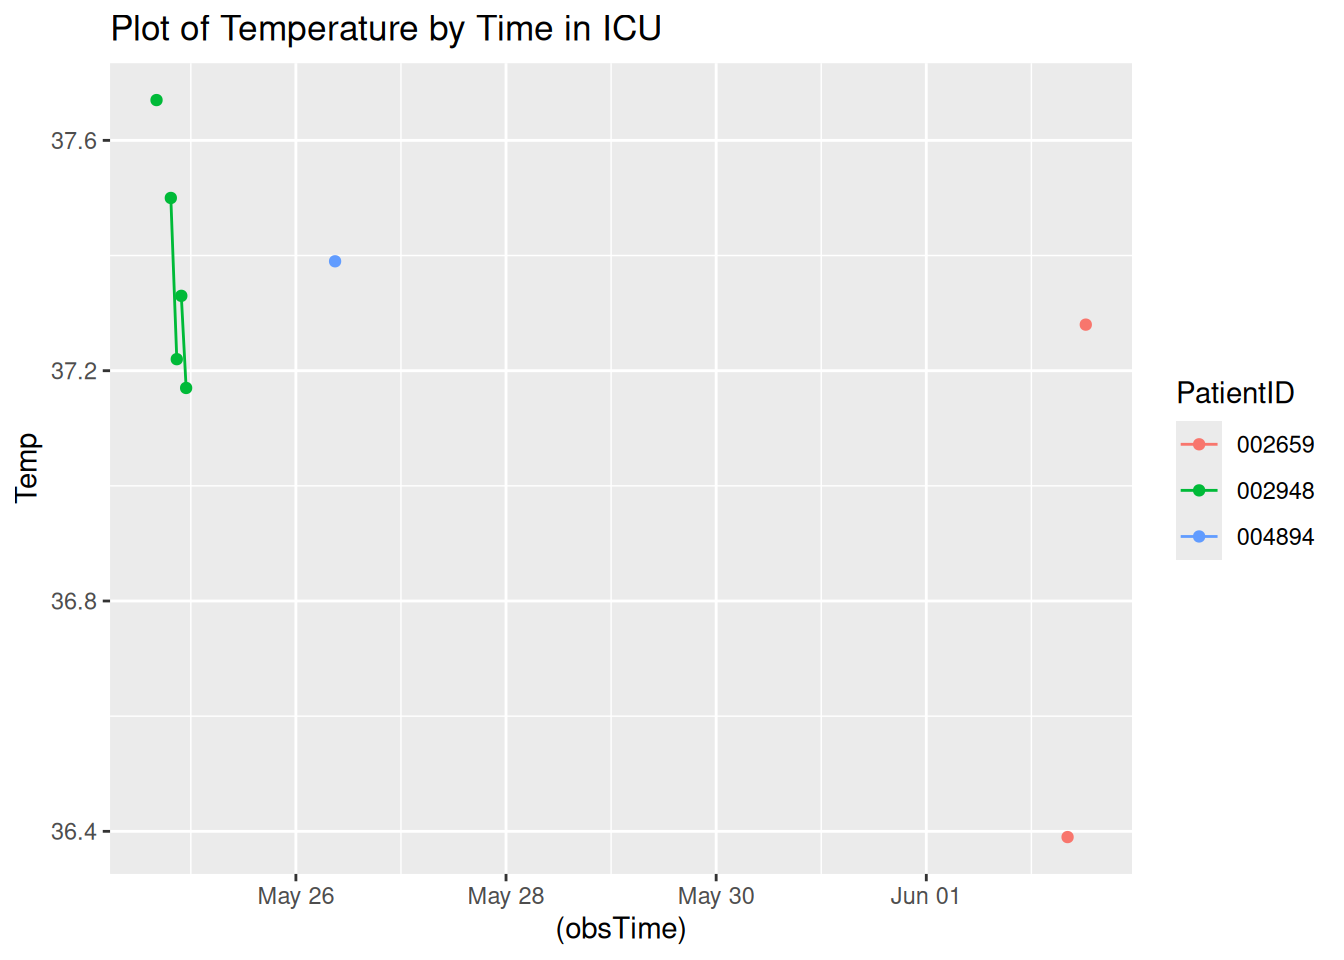
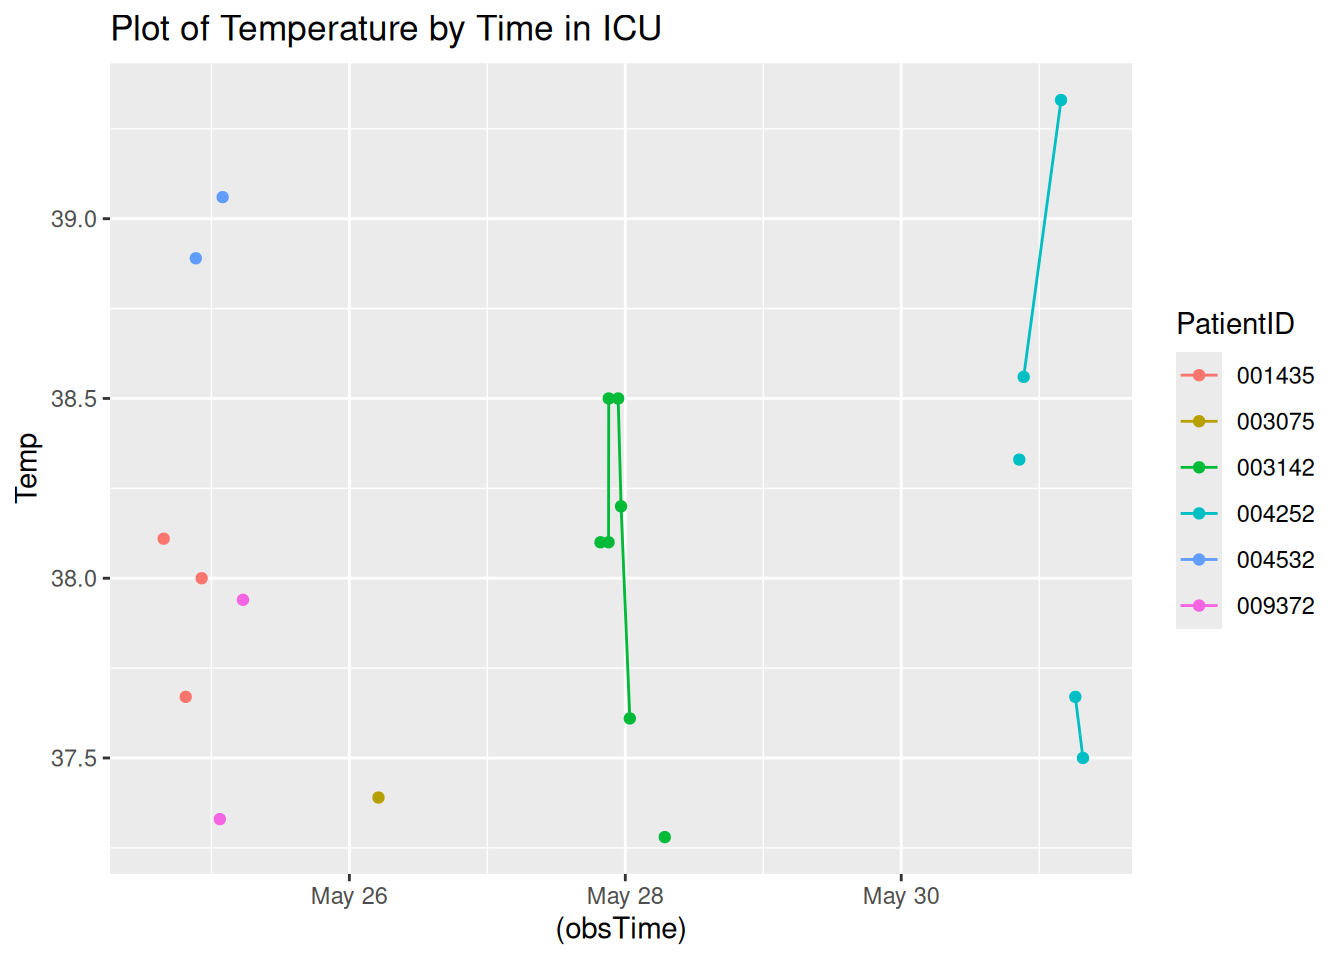
Updated report

diff --git a/A7.html b/A7.html
@@ -118,7 +118,7 @@ pre > code.sourceCode > span > a:first-child::before { text-decoration: underlin
 </div>
 <div class="sourceCode cell-code" id="cb4"><pre class="sourceCode r code-with-copy"><code class="sourceCode r"><span id="cb4-1"><a href="#cb4-1" aria-hidden="true" tabindex="-1"></a><span class="fu">toc</span>()</span></code><button title="Copy to Clipboard" class="code-copy-button"><i class="bi"></i></button></pre></div>
 <div class="cell-output cell-output-stdout">
-<pre><code>12.435 sec elapsed</code></pre>
+<pre><code>11.869 sec elapsed</code></pre>
 </div>
 <div class="sourceCode cell-code" id="cb6"><pre class="sourceCode r code-with-copy"><code class="sourceCode r"><span id="cb6-1"><a href="#cb6-1" aria-hidden="true" tabindex="-1"></a><span class="fu">tic</span>()</span>
 <span id="cb6-2"><a href="#cb6-2" aria-hidden="true" tabindex="-1"></a>test1<span class="ot">=</span><span class="fu">makeSepsisDataset</span>(<span class="at">n=</span><span class="dv">50</span>,<span class="at">read_fn =</span> <span class="st">"read_delim"</span>)</span>
@@ -128,7 +128,7 @@ pre > code.sourceCode > span > a:first-child::before { text-decoration: underlin
 </div>
 <div class="sourceCode cell-code" id="cb8"><pre class="sourceCode r code-with-copy"><code class="sourceCode r"><span id="cb8-1"><a href="#cb8-1" aria-hidden="true" tabindex="-1"></a><span class="fu">toc</span>()</span></code><button title="Copy to Clipboard" class="code-copy-button"><i class="bi"></i></button></pre></div>
 <div class="cell-output cell-output-stdout">
-<pre><code>10.153 sec elapsed</code></pre>
+<pre><code>10.831 sec elapsed</code></pre>
 </div>
 <div class="sourceCode cell-code" id="cb10"><pre class="sourceCode r code-with-copy"><code class="sourceCode r"><span id="cb10-1"><a href="#cb10-1" aria-hidden="true" tabindex="-1"></a><span class="co"># n=100</span></span>
 <span id="cb10-2"><a href="#cb10-2" aria-hidden="true" tabindex="-1"></a><span class="fu">tic</span>()</span>
@@ -139,7 +139,7 @@ pre > code.sourceCode > span > a:first-child::before { text-decoration: underlin
 </div>
 <div class="sourceCode cell-code" id="cb12"><pre class="sourceCode r code-with-copy"><code class="sourceCode r"><span id="cb12-1"><a href="#cb12-1" aria-hidden="true" tabindex="-1"></a><span class="fu">toc</span>()</span></code><button title="Copy to Clipboard" class="code-copy-button"><i class="bi"></i></button></pre></div>
 <div class="cell-output cell-output-stdout">
-<pre><code>15.338 sec elapsed</code></pre>
+<pre><code>22.974 sec elapsed</code></pre>
 </div>
 <div class="sourceCode cell-code" id="cb14"><pre class="sourceCode r code-with-copy"><code class="sourceCode r"><span id="cb14-1"><a href="#cb14-1" aria-hidden="true" tabindex="-1"></a><span class="fu">tic</span>()</span>
 <span id="cb14-2"><a href="#cb14-2" aria-hidden="true" tabindex="-1"></a>test1<span class="ot">=</span><span class="fu">makeSepsisDataset</span>(<span class="at">n=</span><span class="dv">100</span>,<span class="at">read_fn =</span> <span class="st">"read_delim"</span>)</span>
@@ -149,7 +149,7 @@ pre > code.sourceCode > span > a:first-child::before { text-decoration: underlin
 </div>
 <div class="sourceCode cell-code" id="cb16"><pre class="sourceCode r code-with-copy"><code class="sourceCode r"><span id="cb16-1"><a href="#cb16-1" aria-hidden="true" tabindex="-1"></a><span class="fu">toc</span>()</span></code><button title="Copy to Clipboard" class="code-copy-button"><i class="bi"></i></button></pre></div>
 <div class="cell-output cell-output-stdout">
-<pre><code>17.115 sec elapsed</code></pre>
+<pre><code>21.745 sec elapsed</code></pre>
 </div>
 <div class="sourceCode cell-code" id="cb18"><pre class="sourceCode r code-with-copy"><code class="sourceCode r"><span id="cb18-1"><a href="#cb18-1" aria-hidden="true" tabindex="-1"></a><span class="co"># n=500</span></span>
 <span id="cb18-2"><a href="#cb18-2" aria-hidden="true" tabindex="-1"></a><span class="fu">tic</span>()</span>
@@ -160,7 +160,7 @@ pre > code.sourceCode > span > a:first-child::before { text-decoration: underlin
 </div>
 <div class="sourceCode cell-code" id="cb20"><pre class="sourceCode r code-with-copy"><code class="sourceCode r"><span id="cb20-1"><a href="#cb20-1" aria-hidden="true" tabindex="-1"></a><span class="fu">toc</span>()</span></code><button title="Copy to Clipboard" class="code-copy-button"><i class="bi"></i></button></pre></div>
 <div class="cell-output cell-output-stdout">
-<pre><code>72.748 sec elapsed</code></pre>
+<pre><code>94.134 sec elapsed</code></pre>
 </div>
 <div class="sourceCode cell-code" id="cb22"><pre class="sourceCode r code-with-copy"><code class="sourceCode r"><span id="cb22-1"><a href="#cb22-1" aria-hidden="true" tabindex="-1"></a><span class="fu">tic</span>()</span>
 <span id="cb22-2"><a href="#cb22-2" aria-hidden="true" tabindex="-1"></a>test1<span class="ot">=</span><span class="fu">makeSepsisDataset</span>(<span class="at">n=</span><span class="dv">500</span>,<span class="at">read_fn =</span> <span class="st">"read_delim"</span>)</span>
@@ -170,7 +170,7 @@ pre > code.sourceCode > span > a:first-child::before { text-decoration: underlin
 </div>
 <div class="sourceCode cell-code" id="cb24"><pre class="sourceCode r code-with-copy"><code class="sourceCode r"><span id="cb24-1"><a href="#cb24-1" aria-hidden="true" tabindex="-1"></a><span class="fu">toc</span>()</span></code><button title="Copy to Clipboard" class="code-copy-button"><i class="bi"></i></button></pre></div>
 <div class="cell-output cell-output-stdout">
-<pre><code>88.085 sec elapsed</code></pre>
+<pre><code>104.988 sec elapsed</code></pre>
 </div>
 </div>
 <p><strong>Task 3</strong></p>
@@ -196,7 +196,7 @@ pre > code.sourceCode > span > a:first-child::before { text-decoration: underlin
 <span id="cb28-4"><a href="#cb28-4" aria-hidden="true" tabindex="-1"></a></span>
 <span id="cb28-5"><a href="#cb28-5" aria-hidden="true" tabindex="-1"></a><span class="fu">Sys.time</span>()</span></code><button title="Copy to Clipboard" class="code-copy-button"><i class="bi"></i></button></pre></div>
 <div class="cell-output cell-output-stdout">
-<pre><code>[1] "2025-05-24 11:22:12 UTC"</code></pre>
+<pre><code>[1] "2025-05-24 13:34:26 UTC"</code></pre>
 </div>
 <div class="sourceCode cell-code" id="cb30"><pre class="sourceCode r code-with-copy"><code class="sourceCode r"><span id="cb30-1"><a href="#cb30-1" aria-hidden="true" tabindex="-1"></a>dfnew <span class="ot">&lt;-</span> df <span class="sc">%&gt;%</span></span>
 <span id="cb30-2"><a href="#cb30-2" aria-hidden="true" tabindex="-1"></a>  <span class="fu">subset</span>(SepsisLabel<span class="sc">==</span><span class="dv">1</span>)</span>
@@ -225,31 +225,58 @@ pre > code.sourceCode > span > a:first-child::before { text-decoration: underlin
 </thead>
 <tbody>
 <tr class="odd">
-<td style="text-align: left;">002659</td>
-<td style="text-align: right;">218</td>
-<td style="text-align: right;">87</td>
-<td style="text-align: right;">37.28</td>
-<td style="text-align: right;">14</td>
-<td style="text-align: right;">1</td>
-<td style="text-align: left;">2025-06-02 12:25:50</td>
-</tr>
-<tr class="even">
-<td style="text-align: left;">002948</td>
-<td style="text-align: right;">15</td>
-<td style="text-align: right;">61</td>
-<td style="text-align: right;">NA</td>
+<td style="text-align: left;">001435</td>
+<td style="text-align: right;">9</td>
+<td style="text-align: right;">115</td>
+<td style="text-align: right;">38.00</td>
 <td style="text-align: right;">25</td>
 <td style="text-align: right;">1</td>
-<td style="text-align: left;">2025-05-24 23:31:51</td>
+<td style="text-align: left;">2025-05-24 22:18:21</td>
+</tr>
+<tr class="even">
+<td style="text-align: left;">003075</td>
+<td style="text-align: right;">42</td>
+<td style="text-align: right;">71</td>
+<td style="text-align: right;">NA</td>
+<td style="text-align: right;">19</td>
+<td style="text-align: right;">1</td>
+<td style="text-align: left;">2025-05-26 07:11:41</td>
 </tr>
 <tr class="odd">
-<td style="text-align: left;">004894</td>
-<td style="text-align: right;">51</td>
-<td style="text-align: right;">77</td>
-<td style="text-align: right;">NA</td>
-<td style="text-align: right;">13</td>
+<td style="text-align: left;">003142</td>
+<td style="text-align: right;">90</td>
+<td style="text-align: right;">73</td>
+<td style="text-align: right;">37.28</td>
+<td style="text-align: right;">21</td>
 <td style="text-align: right;">1</td>
-<td style="text-align: left;">2025-05-26 13:16:45</td>
+<td style="text-align: left;">2025-05-28 06:52:14</td>
+</tr>
+<tr class="even">
+<td style="text-align: left;">004252</td>
+<td style="text-align: right;">164</td>
+<td style="text-align: right;">104</td>
+<td style="text-align: right;">NA</td>
+<td style="text-align: right;">15</td>
+<td style="text-align: right;">1</td>
+<td style="text-align: left;">2025-05-31 08:06:11</td>
+</tr>
+<tr class="odd">
+<td style="text-align: left;">004532</td>
+<td style="text-align: right;">19</td>
+<td style="text-align: right;">90</td>
+<td style="text-align: right;">NA</td>
+<td style="text-align: right;">23</td>
+<td style="text-align: right;">1</td>
+<td style="text-align: left;">2025-05-25 07:45:26</td>
+</tr>
+<tr class="even">
+<td style="text-align: left;">009372</td>
+<td style="text-align: right;">18</td>
+<td style="text-align: right;">127</td>
+<td style="text-align: right;">NA</td>
+<td style="text-align: right;">31</td>
+<td style="text-align: right;">1</td>
+<td style="text-align: left;">2025-05-25 06:59:59</td>
 </tr>
 </tbody>
 </table>
